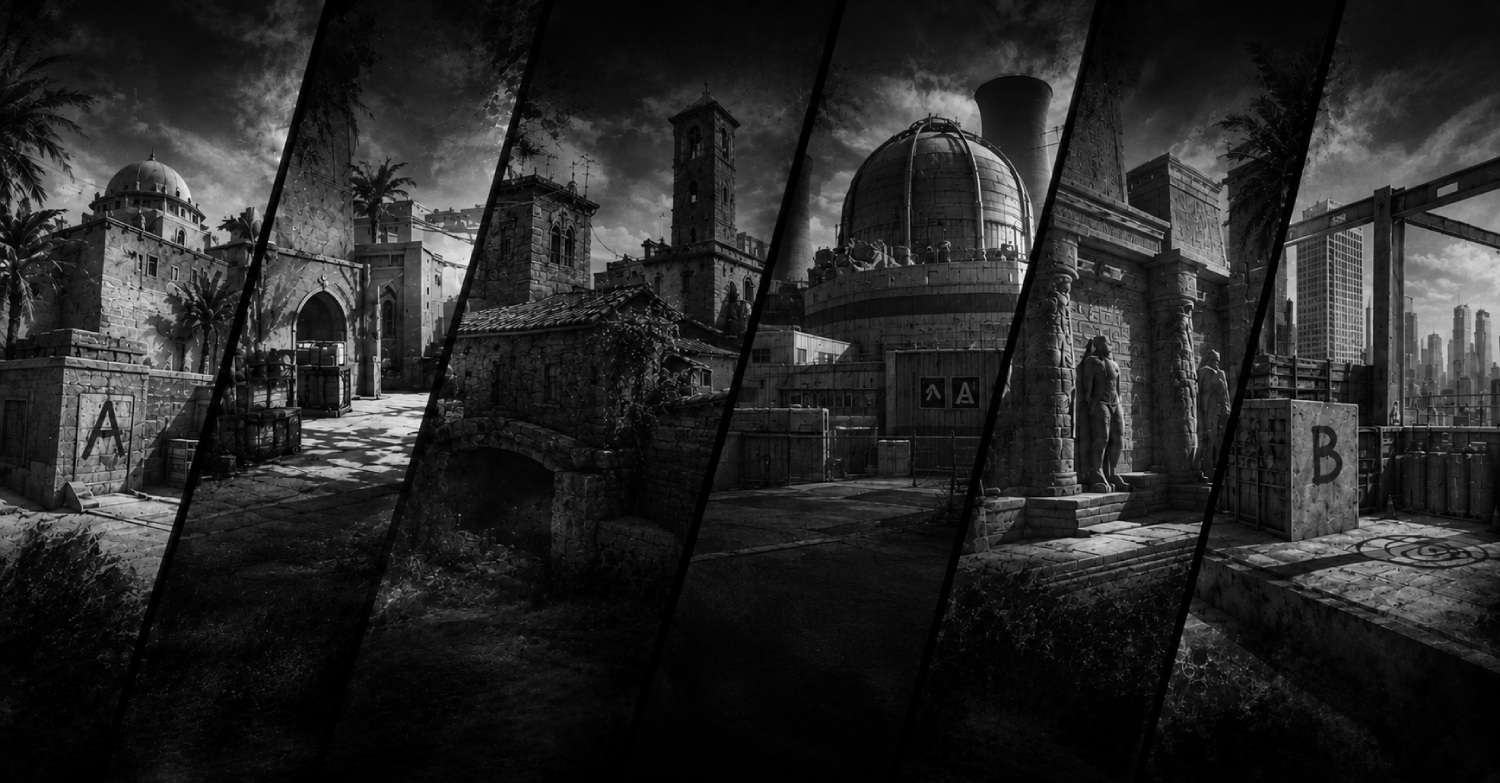
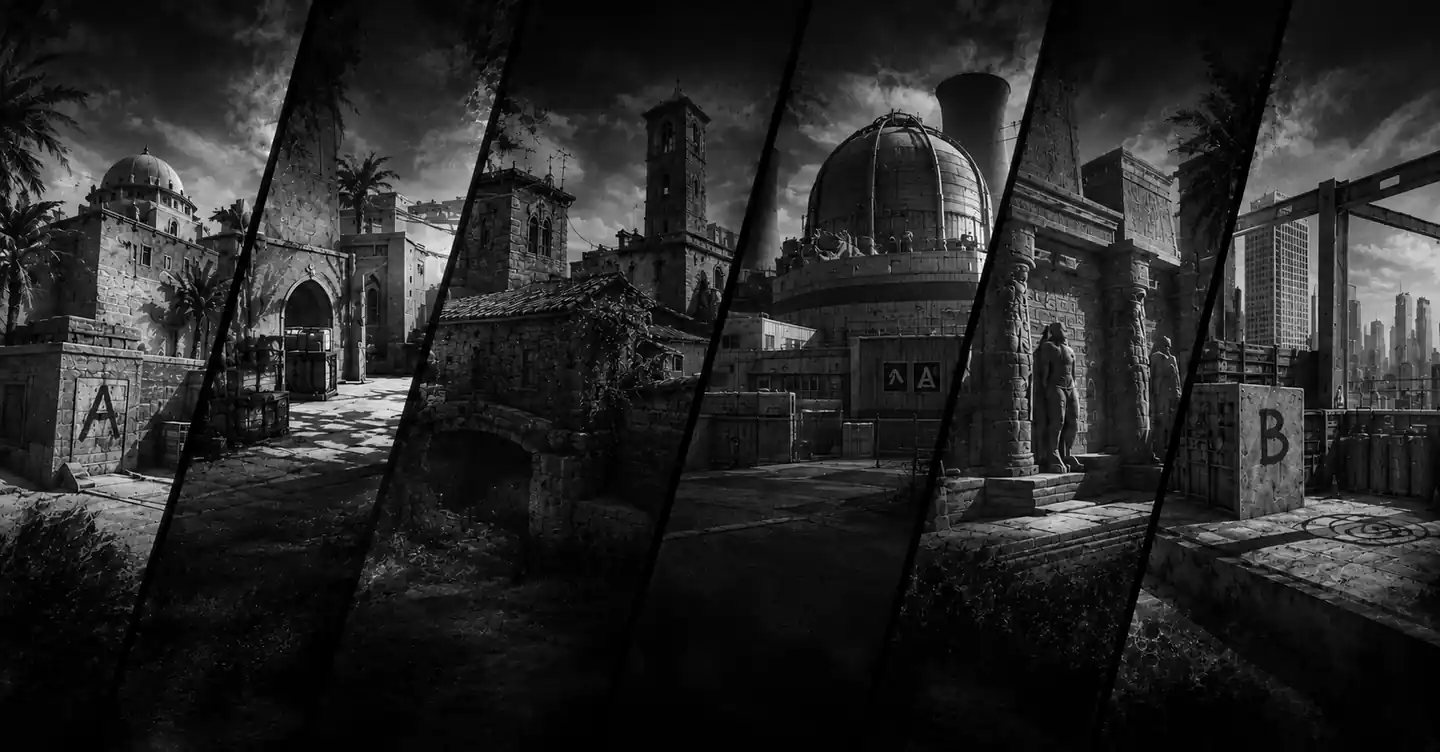
perf: re-encode images from the PNG originals, 4.9 MB down to 1.0 MB
The images were WebP saved at very high quality — over a megabyte each at 1200 px.
Re-encoding from the source PNGs rather than from the already-compressed WebP
means the gallery photos are now wider (1536 px instead of 1200) while weighing
roughly eight times less.

- backgroundImage 1146 kB -> 62 kB: it renders at opacity 0.14 behind a grayscale
  filter and a radial mask, so there is no detail left to protect
- gallery photos ~1.07 MB -> 117-148 kB each at quality 78
- faces 188/275 kB -> 130/219 kB; they keep their alpha channel, dropped to
  alphaQuality 70 since both are dimmed and masked anyway

Two sizing bugs that would have wasted half of this:

- the gallery declared width={700} while rendering at ~1050 px. With no sizes
  attribute next/image builds its srcset with 1x/2x descriptors off that number,
  so the browser took the 700 px variant and stretched it — soft no matter how
  good the file is. FALLBACK_ASPECT was derived from the same wrong numbers.
- tt_phoenix_face is 1000x1091 but was declared as a square, so next/image
  squashed the face

Measured in the browser: images down to 0.49 MB of transfer for a full pass over
the page.

Changed region(s): [[0.875, 0.3059, 0.9062, 0.367], [0.3125, 0.3976, 0.375, 0.4282], [0.625, 0.1529, 0.6562, 0.1835]]

diff --git a/app/components/mainPage/gallery/Gallery.tsx b/app/components/mainPage/gallery/Gallery.tsx
@@ -14,7 +14,7 @@ const SLIDES = [
 
 const SLIDE_H_VH = 78;
 const GAP_VW = 4;
-const FALLBACK_ASPECT = 700 / 467;
+const FALLBACK_ASPECT = 1536 / 1024;
 const FALLBACK_VH = 100 + SLIDES.length * SLIDE_H_VH * FALLBACK_ASPECT;
 
 export const Gallery = () => {
@@ -71,7 +71,7 @@ export const Gallery = () => {
           {SLIDES.map((slide) => (
             <figure key={slide.src} className="shrink-0">
               {/* alt is empty on purpose — the figcaption already says this out loud */}
-              <Image src={slide.src} alt="" width={700} height={467} className="h-[78vh] w-auto max-w-none" />
+              <Image src={slide.src} alt="" width={1536} height={1024} className="h-[78vh] w-auto max-w-none" />
               <figcaption className="mt-4 text-sm text-neutral-900 uppercase">{slide.caption}</figcaption>
             </figure>
           ))}

diff --git a/app/components/mainPage/hero/components/Faces.tsx b/app/components/mainPage/hero/components/Faces.tsx
@@ -9,7 +9,7 @@ export const Faces = () => {
         <Image src="/images/ct_sas_face.webp" alt="" width={1000} height={1000} />
       </div>
       <div className={cn(style.dark_bottom_full, style.face_fade_out, "absolute right-[-600px] bottom-[-100px]")}>
-        <Image src="/images/tt_phoenix_face.webp" alt="" width={1000} height={1000} />
+        <Image src="/images/tt_phoenix_face.webp" alt="" width={1000} height={1091} />
       </div>
     </>
   );
